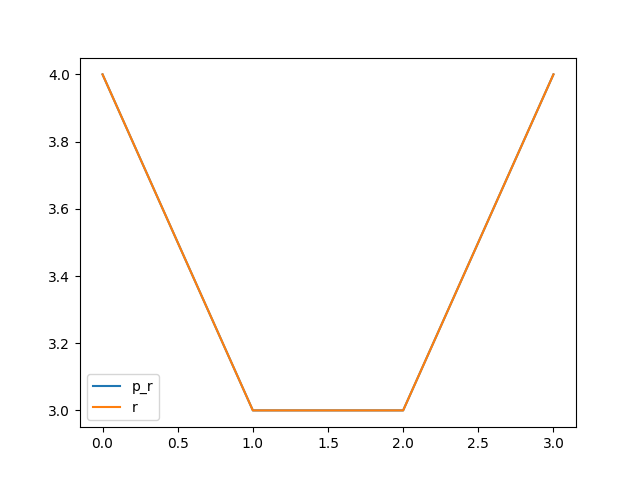
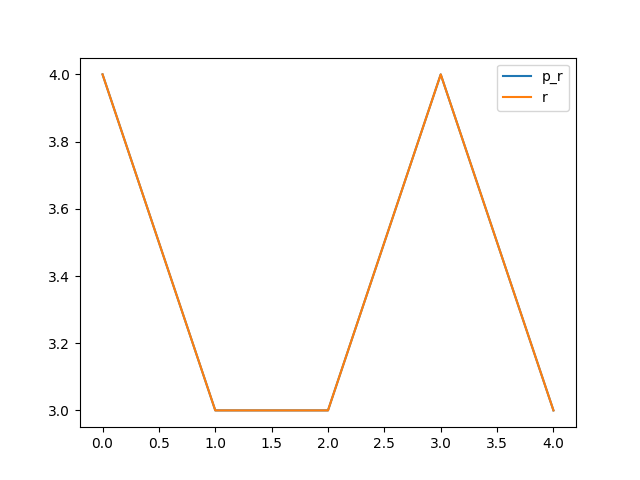
0x0004

diff --git a/benchmark.md b/benchmark.md
@@ -12,13 +12,16 @@ Synthesising 0x0002 pexact:152 r=3 exact:152 r=3
 Synthesising 0x0003 pexact:182 r=4 exact:312 r=4
 
 ```mermaid
+Synthesising 0x0004 pexact:152 r=3 exact:152 r=3
+
+```mermaid
 xychart-beta
     title "Comparison powertwoexact twoexact"
-    x-axis [0, 1, 2, 3]
+    x-axis [0, 1, 2, 3, 4]
     y-axis "Switching Activity" 0-->312
-    line [96, 152, 152, 182]
-    line [192, 152, 152, 312]
-    line [145.5, 145.5, 145.5, 145.5]
-    line [202.0, 202.0, 202.0, 202.0]
+    line [96, 152, 152, 182, 152]
+    line [192, 152, 152, 312, 152]
+    line [146.8, 146.8, 146.8, 146.8, 146.8]
+    line [192.0, 192.0, 192.0, 192.0, 192.0]
 ```
 
